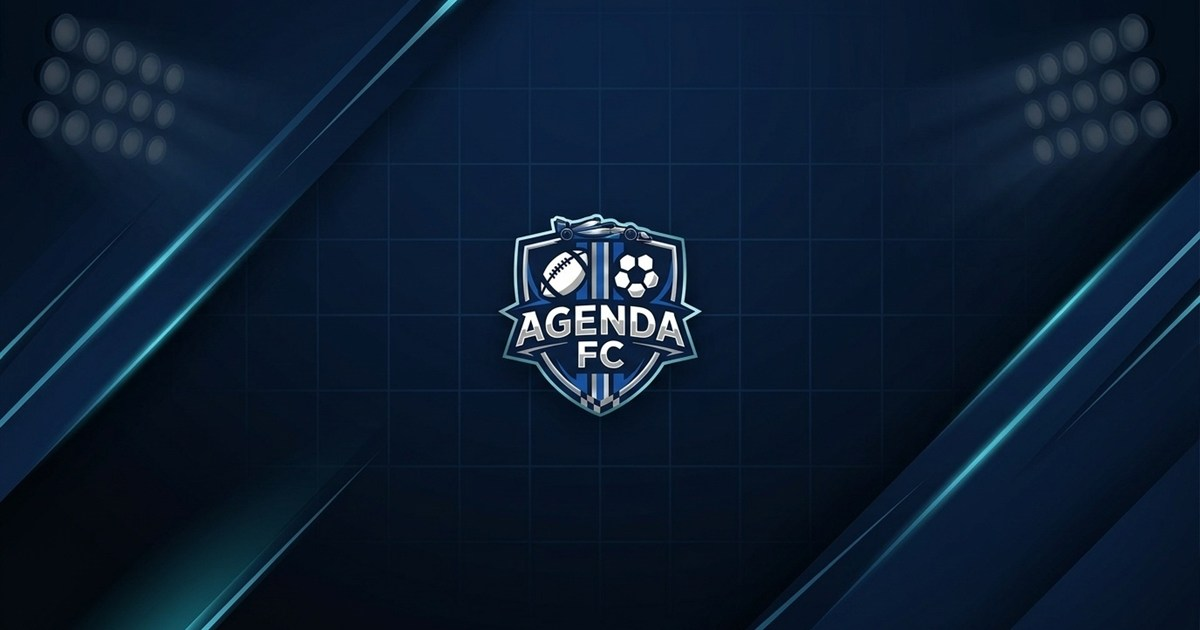
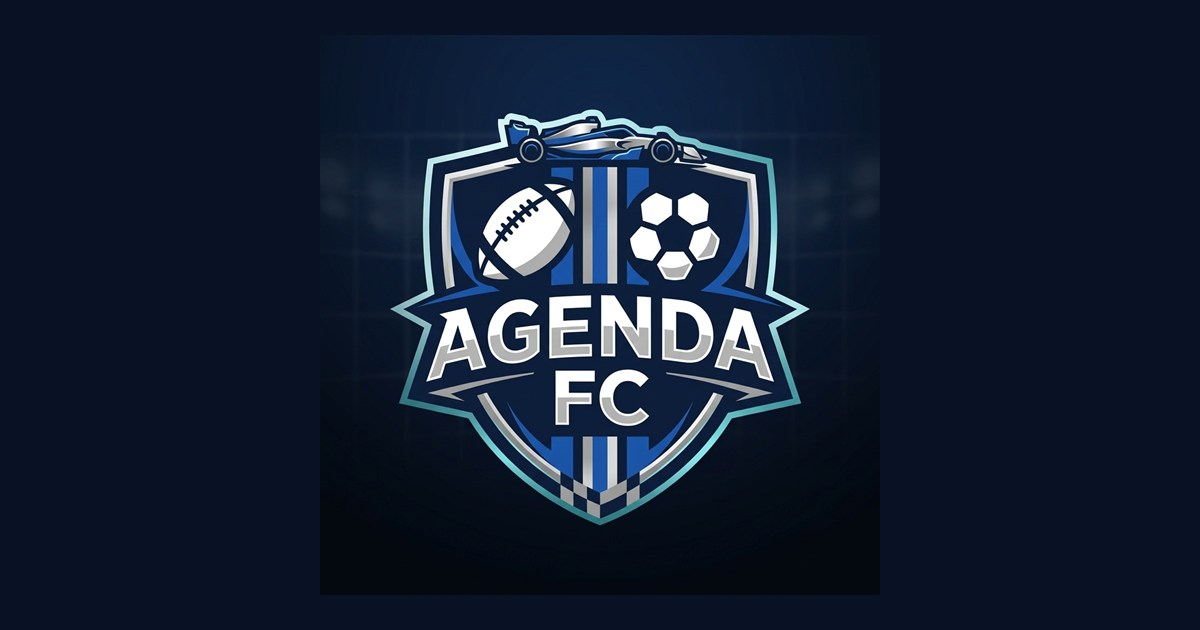
novo escudo whats

diff --git a/app/layout.tsx b/app/layout.tsx
@@ -55,17 +55,17 @@ export const metadata: Metadata = {
       "A agenda completa para saber onde assistir Futebol, NFL e Fórmula 1 na TV e no streaming. Não perca nenhum lance!",
     images: [
       {
-        url: "/og-banner.jpg",
-        width: 1200,
-        height: 630,
+        url: "/escudo.jpg",
+        width: 800,
+        height: 800,
         alt: "Agenda FC - Onde Assistir Esportes Ao Vivo",
         type: "image/jpeg",
       },
       {
-        url: "/logo.jpg",
-        width: 512,
-        height: 512,
-        alt: "Agenda FC",
+        url: "/og-banner.jpg",
+        width: 1200,
+        height: 630,
+        alt: "Agenda FC - Onde Assistir Esportes Ao Vivo",
         type: "image/jpeg",
       },
     ],
@@ -76,7 +76,7 @@ export const metadata: Metadata = {
     title: "Agenda FC - Onde Assistir Esportes Ao Vivo",
     description:
       "A agenda completa para saber onde assistir Futebol, NFL e Fórmula 1 na TV e no streaming.",
-    images: ["/og-banner.jpg"],
+    images: ["/escudo.jpg"],
     creator: "@agendafc_br",
     site: "@agendafc_br",
   },
